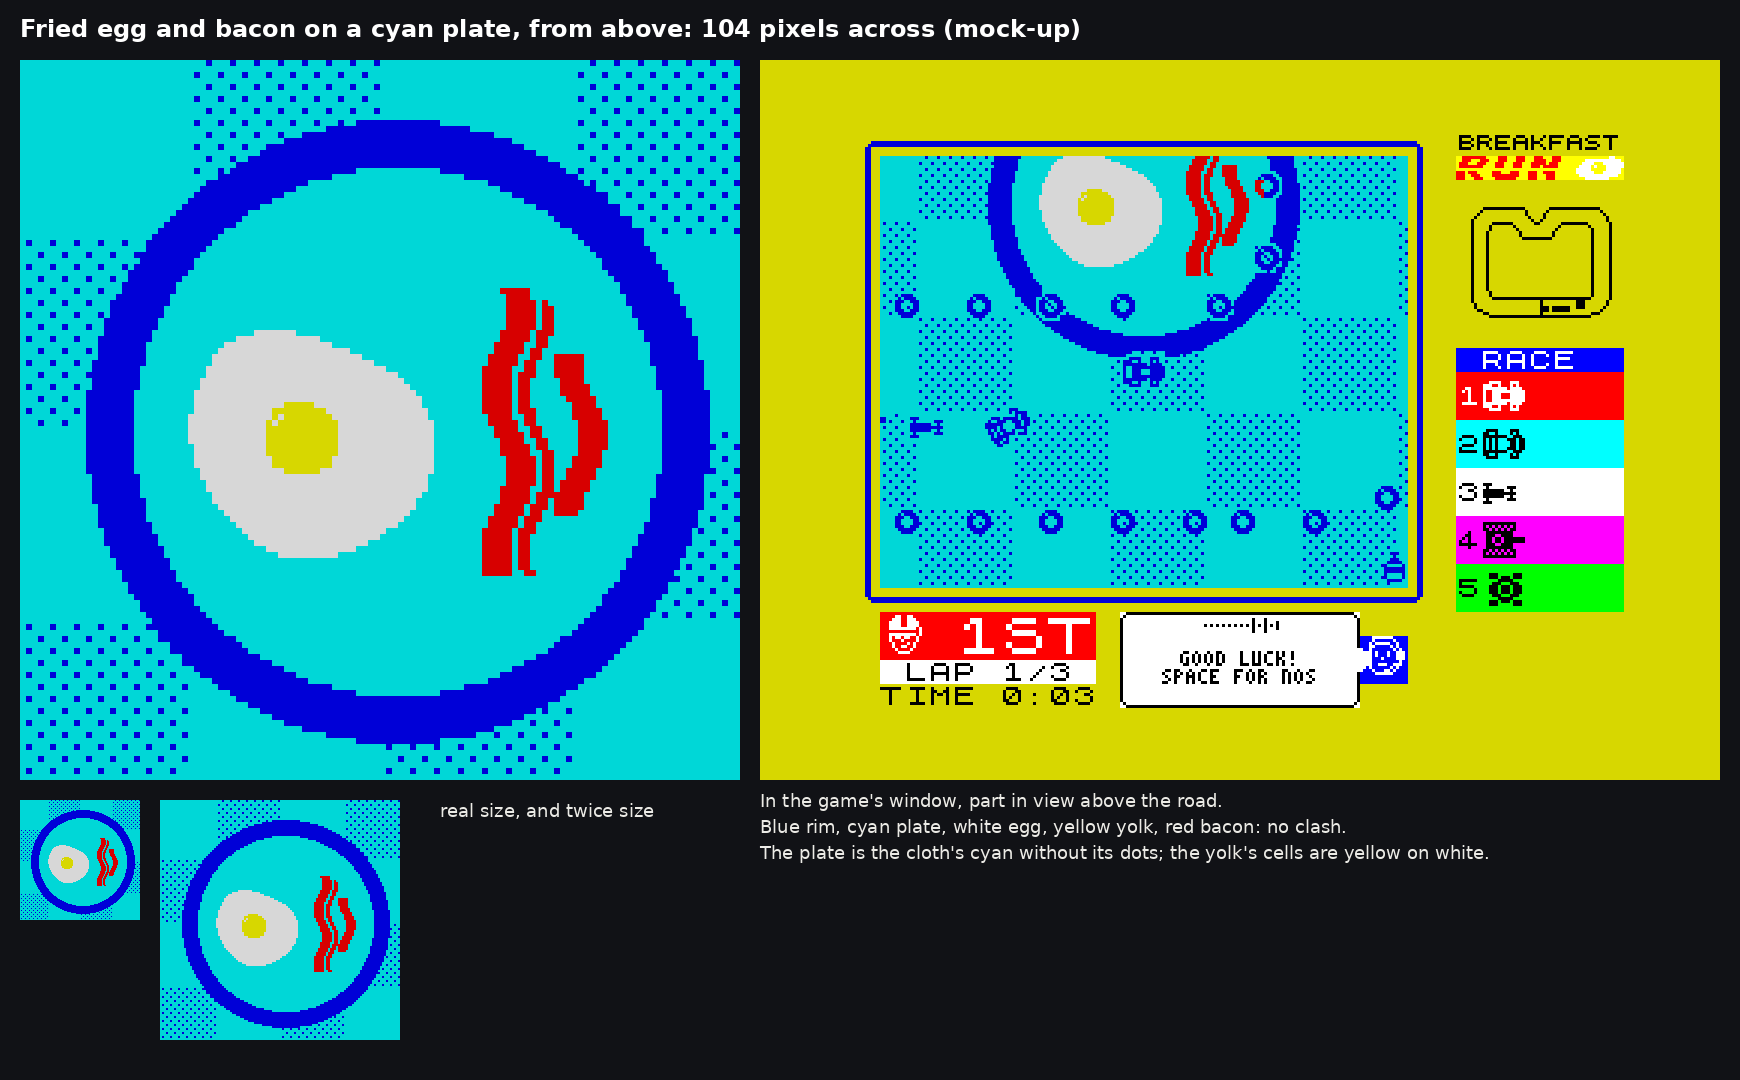
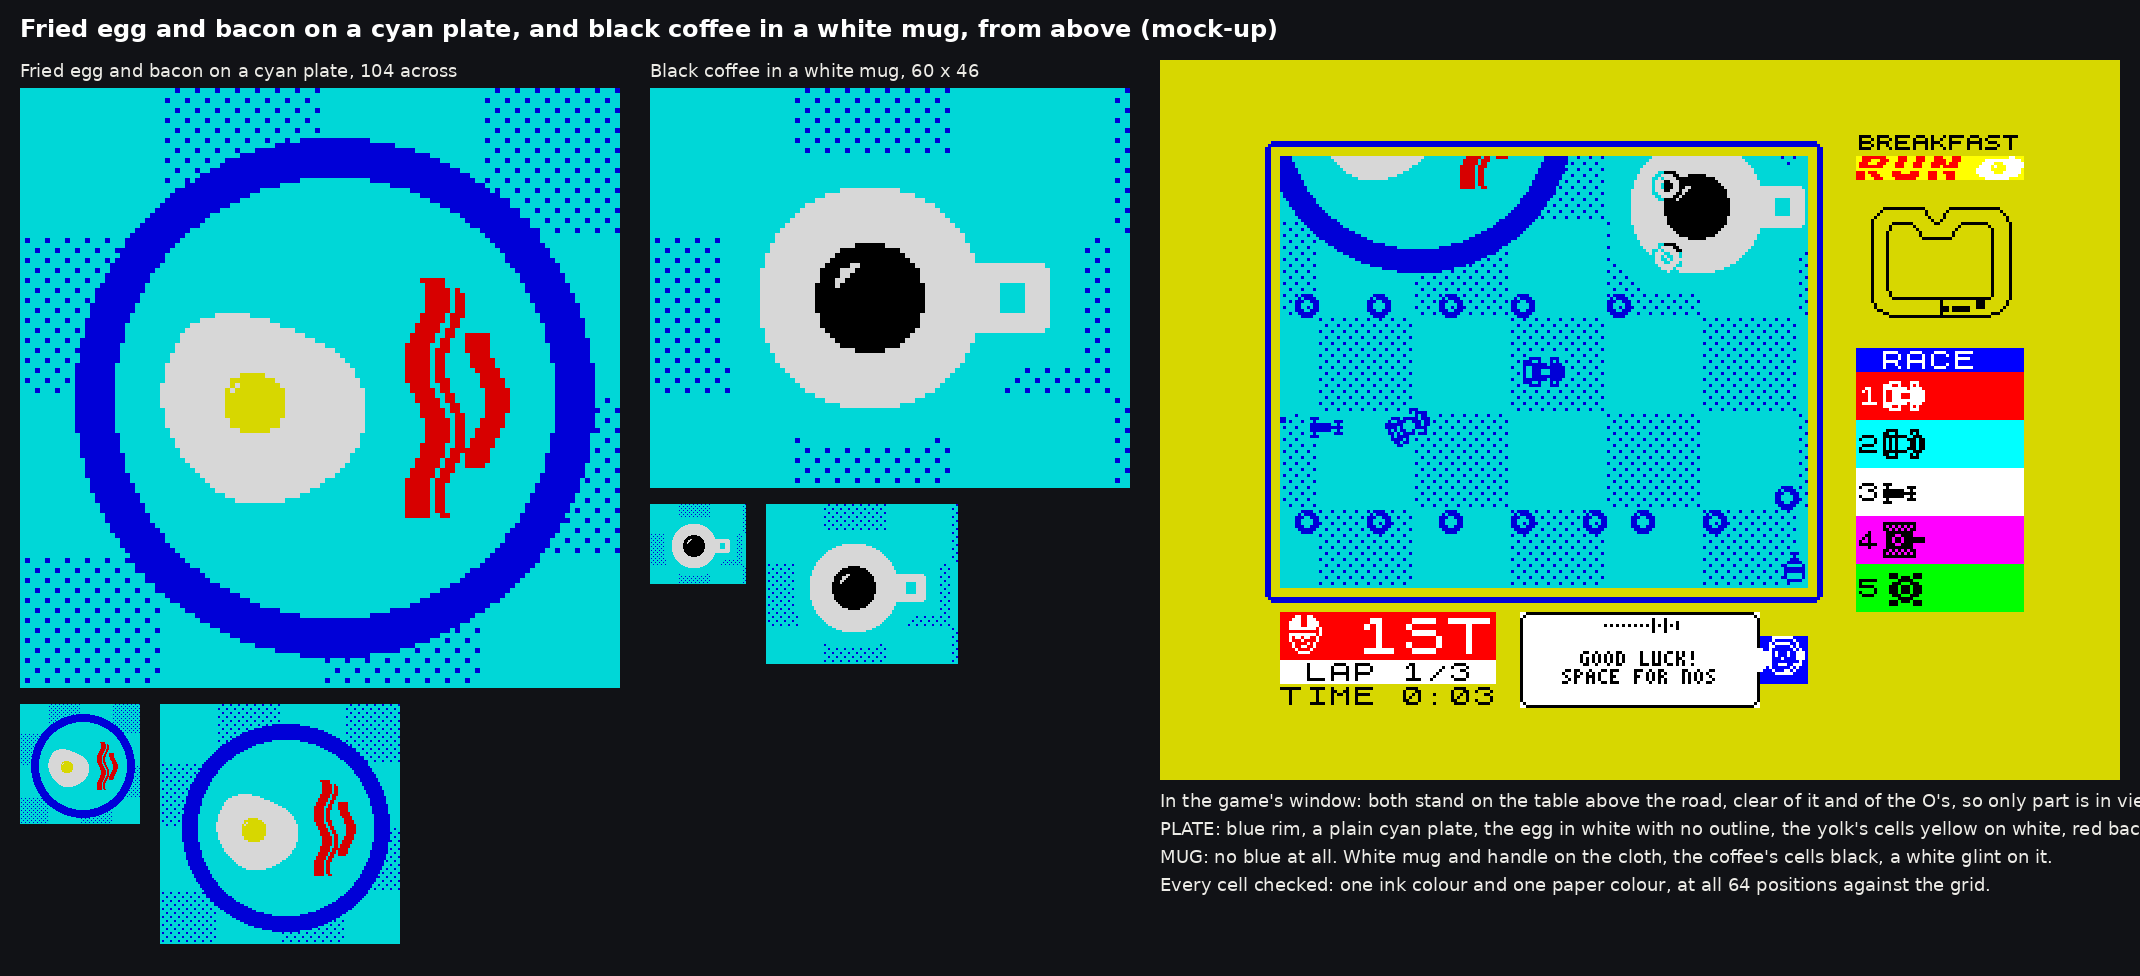
Mock-up: black coffee in a white mug; plate and mug kept clear of the road
Claude-Session: https://claude.ai/code/session_01476U86GiAC8cKs57wAJvc3

diff --git a/tools/make_fryup.py b/tools/make_fryup.py
@@ -38,25 +38,47 @@ def fryup(d=104):
         o.bits[rasher == 1] = 1; o.ink2[rasher == 1] = mc.RED + 1
         o.bits[fat] = 0; o.ink2[fat] = 0
     return o
+def coffee_mug():
+    """Black coffee in a white mug, from above (Grant, 14 Nov 2026: "coffee should be black in a
+    mug/cup"): no blue at all. The mug's wall and handle are WHITE ink on the cloth's cyan; the
+    coffee is a hole in it whose cells have BLACK paper - the wall is 8+ pixels thick, so no cell
+    holds both coffee and cloth. The glint on the coffee is the same white ink."""
+    w, h = 60, 46; c = 22.5                                     # (the wall is 11.4 thick: 8 pixels on the diagonal too)
+    body = mc.disc(w, h, c, c, 22.4); handle = np.zeros((h, w), dtype=np.uint8); handle[16:30, 42:59] = 1; handle[16, 58] = handle[29, 58] = 0
+    hole = np.zeros((h, w), dtype=np.uint8); hole[20:26, 49:54] = 1                 # the handle's hole: cloth shows through
+    o = mc.blended('Black coffee in a white mug, 60 x 46', (body | handle) & (1 - hole), mc.WHITE, mc.disc(w, h, c, c, 11.0), mc.BLACK)
+    m = mc.MARGIN + 1; arc = mc.ring(7.5, 1.3); arc[6:, :] = 0; arc[:, 6:] = 0       # a glint: white ink on the black
+    for j in range(arc.shape[0]):
+        for i in range(arc.shape[1]):
+            yy, xx = m + 15 + j, m + 15 + i
+            if arc[j, i] and o.label[yy, xx] == mc.BLACK + 1: o.bits[yy, xx] = 1; o.ink2[yy, xx] = mc.WHITE + 1
+    return o
 if __name__ == '__main__':
-    o = fryup(); mc.verify(o); print('no clash at any of the 64 positions')
+    objs = [fryup(), coffee_mug()]
+    for o in objs: mc.verify(o)
+    print('no clash at any of the 64 positions')
     DESIGN = os.path.join(HERE, '..', 'docs', 'design')
     sb, sa = load(os.path.join(DESIGN, 'mock_objects_racing.bin')); win = sb[8:152, 8:184].copy(); clean = mc.clean_cloth(win)
     world = np.tile(clean[0:64, 0:64], (4, 4))
-    W = (o.w + 23) // 8 * 8; H = (o.h + 23) // 8 * 8
-    b, a = mc.compose(world[24:24 + H, 16:16 + W], [(o, (W - o.w) // 2 + 3, (H - o.h) // 2 + 2)])
-    big, one, two = mc.show(b, a, 6), mc.show(b, a, 1), mc.show(b, a, 2)
-    gb, ga = mc.compose(clean, [(o, 36, -36)], sprites=(mc.grow((win ^ clean).astype(np.uint8)), win))    # in the game's window, above the road
-    sb[8:152, 8:184] = gb; sa[1:19, 1:23] = ga; scr = render(sb, sa, border=6, s=3)
     try: f = ImageFont.truetype('DejaVuSans-Bold.ttf', 24); fs = ImageFont.truetype('DejaVuSans.ttf', 18)
     except OSError: f = fs = ImageFont.load_default()
-    BG, FG = (17, 18, 22), (236, 235, 230)
-    out = Image.new('RGB', (big.width + scr.width + 60, max(big.height + 60 + two.height + 40, scr.height + 110) + 20), BG); d = ImageDraw.Draw(out)
-    d.text((20, 14), 'Fried egg and bacon on a cyan plate, from above: 104 pixels across (mock-up)', fill=(255, 255, 255), font=f)
-    out.paste(big, (20, 60)); out.paste(one, (20, 60 + big.height + 20)); out.paste(two, (20 + one.width + 20, 60 + big.height + 20))
-    d.text((20 + one.width + two.width + 60, 60 + big.height + 20), 'real size, and twice size', fill=FG, font=fs)
-    out.paste(scr, (big.width + 40, 60))
-    for k, t in enumerate(['In the game\'s window, part in view above the road.', 'Blue rim, cyan plate, white egg, yellow yolk, red bacon: no clash.',
-                           'The plate is the cloth\'s cyan without its dots; the yolk\'s cells are yellow on white.']):
-        d.text((big.width + 40, 60 + scr.height + 10 + 26 * k), t, fill=FG, font=fs)
+    BG, FG = (17, 18, 22), (236, 235, 230); cards = []
+    for o in objs:
+        W = (o.w + 23) // 8 * 8; H = (o.h + 23) // 8 * 8
+        b, a = mc.compose(world[24:24 + H, 16:16 + W], [(o, (W - o.w) // 2 + 3, (H - o.h) // 2 + 2)])
+        big, one, two = mc.show(b, a, 5), mc.show(b, a, 1), mc.show(b, a, 2)
+        card = Image.new('RGB', (max(big.width, one.width + two.width + 20), big.height + two.height + 56), BG)
+        ImageDraw.Draw(card).text((0, 0), o.name, fill=FG, font=fs); card.paste(big, (0, 28)); card.paste(one, (0, big.height + 44)); card.paste(two, (one.width + 20, big.height + 44)); cards.append(card)
+    gb, ga = mc.compose(clean, [(objs[0], -6, -65), (objs[1], 108, -14)], sprites=(mc.grow((win ^ clean).astype(np.uint8)), win))   # in the game's window, on the table ABOVE the road: nothing may spill into the road (Grant, 14 Nov 2026)
+    sb[8:152, 8:184] = gb; sa[1:19, 1:23] = ga; scr = render(sb, sa, border=6, s=3)
+    notes = ['In the game\'s window: both stand on the table above the road, clear of it and of the O\'s, so only part is in view.',
+             'PLATE: blue rim, a plain cyan plate, the egg in white with no outline, the yolk\'s cells yellow on white, red bacon.',
+             'MUG: no blue at all. White mug and handle on the cloth, the coffee\'s cells black, a white glint on it.',
+             'Every cell checked: one ink colour and one paper colour, at all 64 positions against the grid.']
+    out = Image.new('RGB', (sum(c.width + 30 for c in cards) + scr.width + 40, max(max(c.height for c in cards), scr.height + 30 * len(notes) + 20) + 80), BG); d = ImageDraw.Draw(out)
+    d.text((20, 14), 'Fried egg and bacon on a cyan plate, and black coffee in a white mug, from above (mock-up)', fill=(255, 255, 255), font=f)
+    x = 20
+    for c in cards: out.paste(c, (x, 60)); x += c.width + 30
+    out.paste(scr, (x, 60))
+    for k, t in enumerate(notes): d.text((x, 60 + scr.height + 10 + 28 * k), t, fill=FG, font=fs)
     p = os.path.join(DESIGN, 'egg_bacon_plate.png'); out.save(p); print('wrote', os.path.normpath(p), out.size)

diff --git a/PROJECT-LOG.md b/PROJECT-LOG.md
@@ -1357,3 +1357,8 @@ Authoritative log for this workstream (house rule 5.2). Newest at the bottom. Ti
   the world beside the road, clear of the O's; every cell checked for one ink and one paper.
   The blended (no blue edge) objects did not get placed: they need 12 px clear all round and the
   strips beside the road are too narrow where the tool looked. Not built into the game.
+- Coloured objects, Grant's steers (14 Nov, midday): "happy with those colour images"; the egg and
+  bacon plate must be CYAN so the egg's white shows with no outline, the yolk's cells yellow on
+  white ("happy with the plate"); "coffee should be black in a mug/cup" (drawn: white mug, no
+  blue, black coffee); "remember these shapes should not spill into the road area". Sheet:
+  docs/design/egg_bacon_plate.png (tools/make_fryup.py). Nothing built into the game yet.
